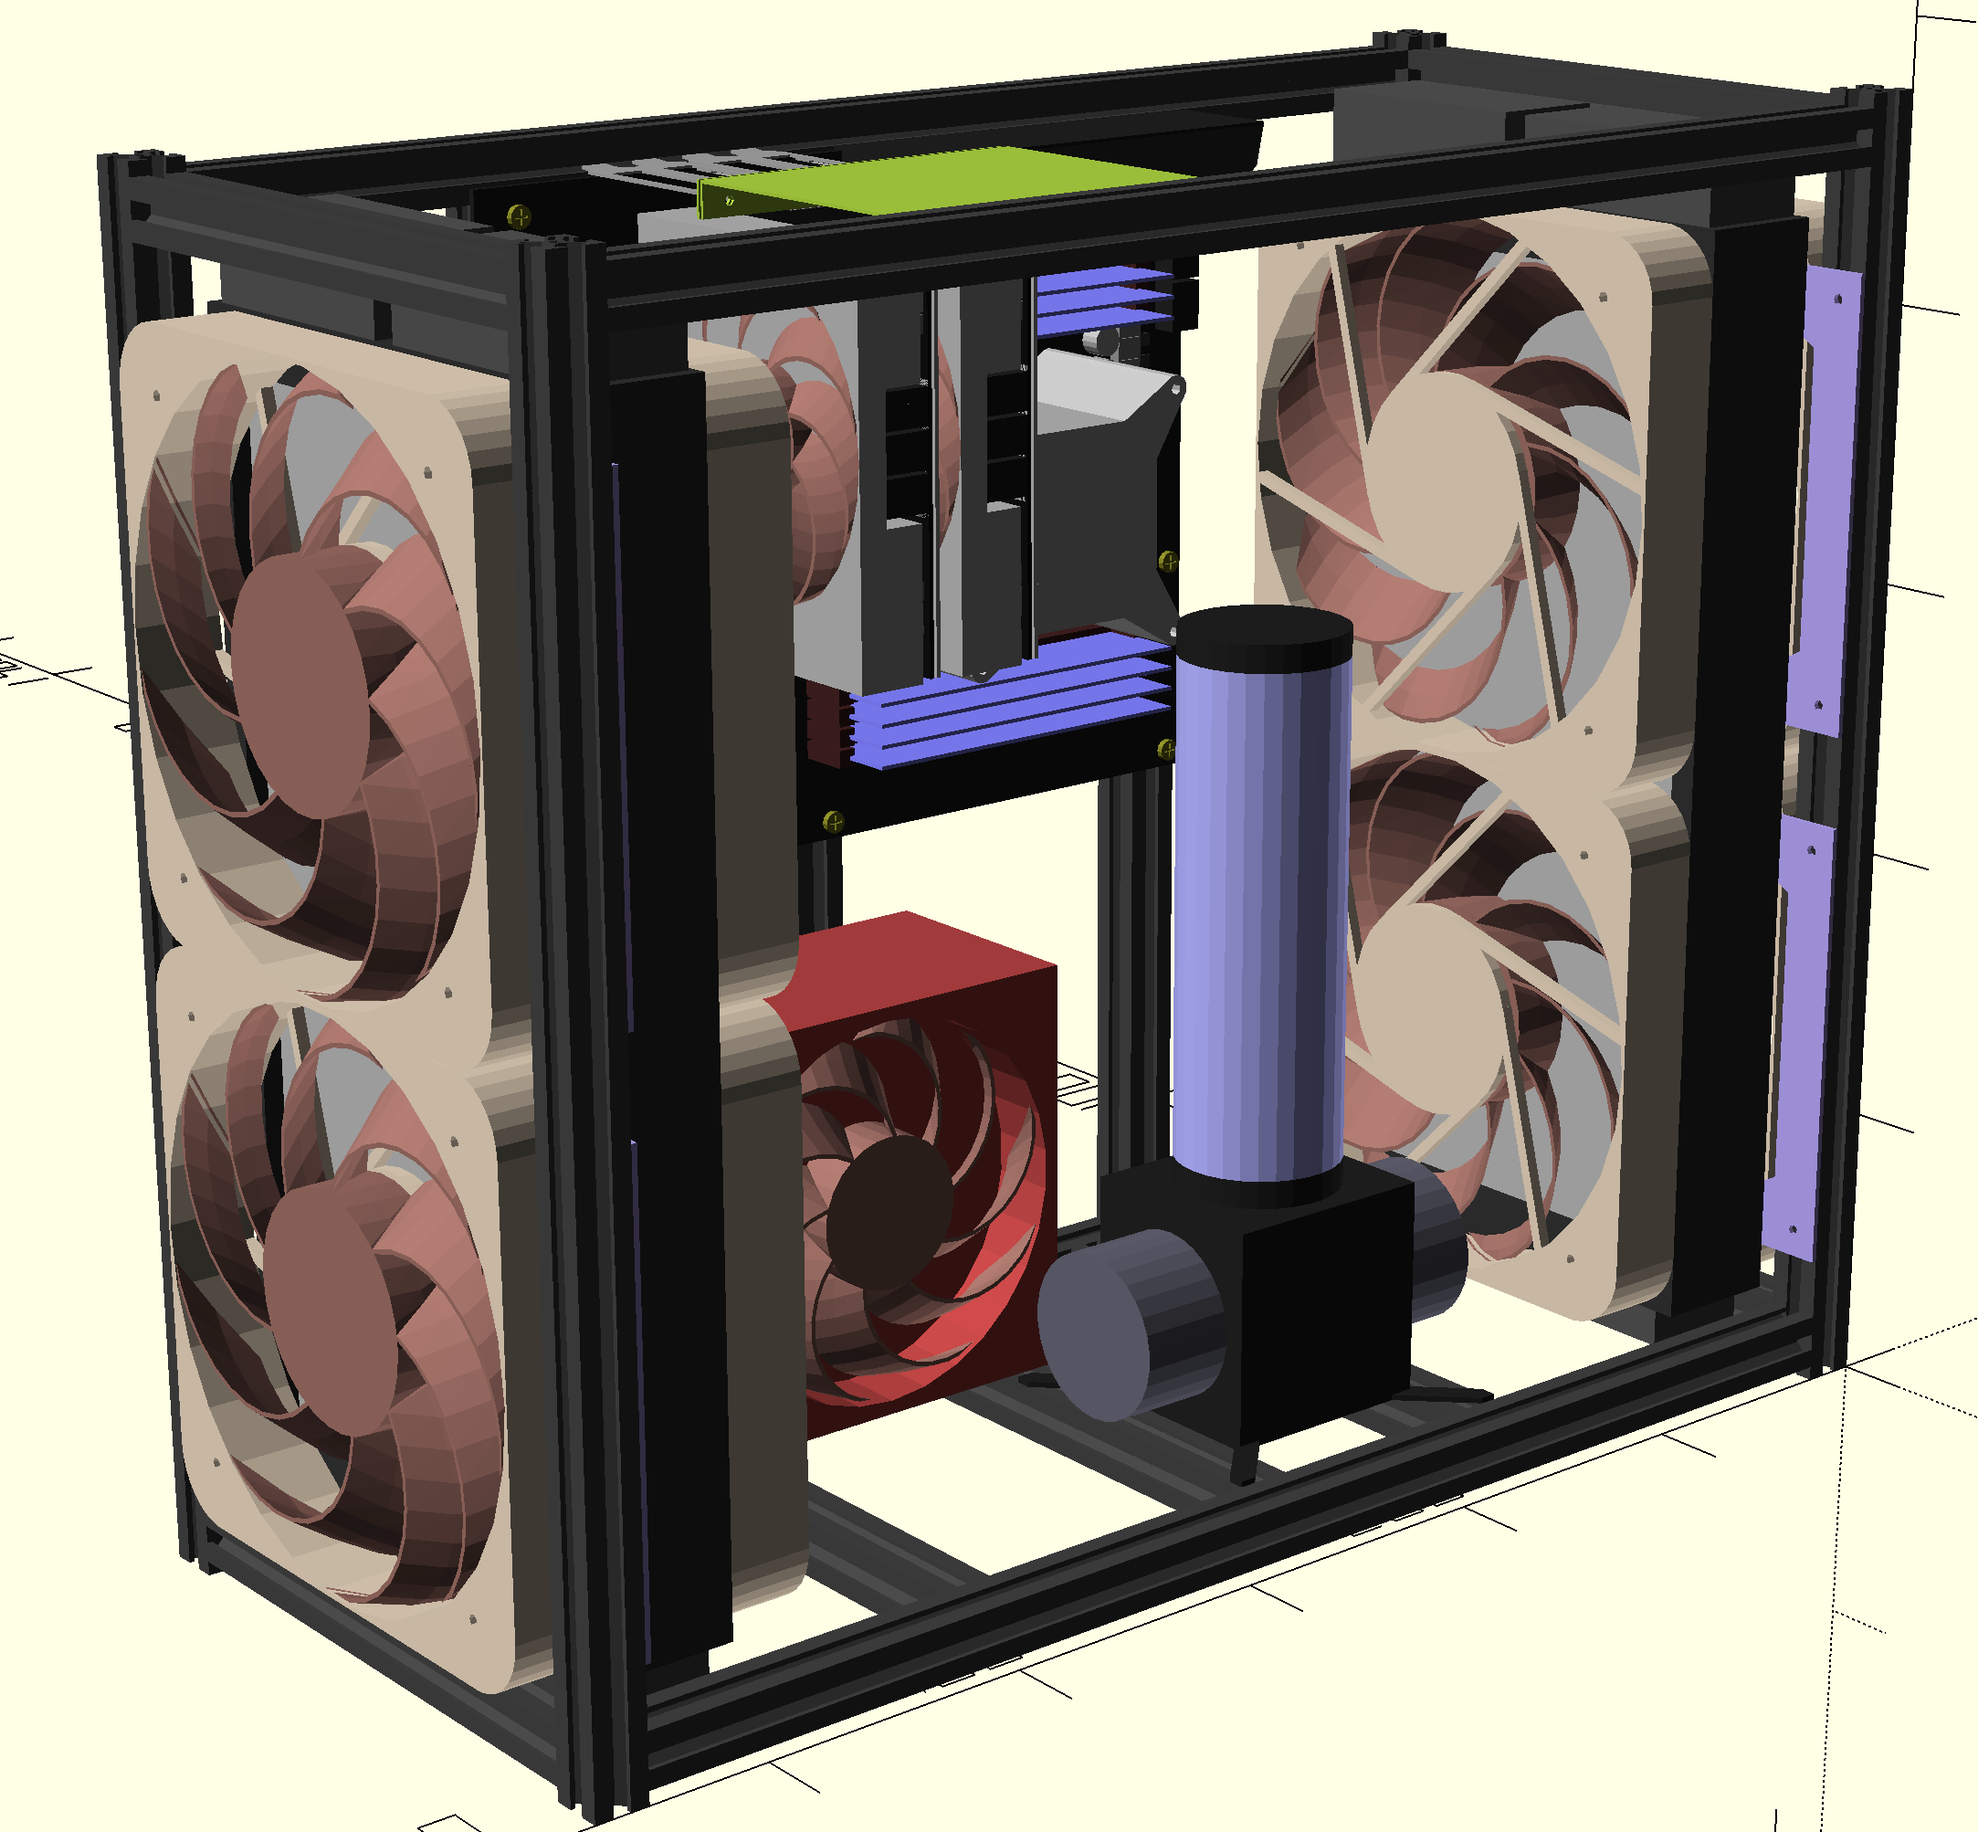
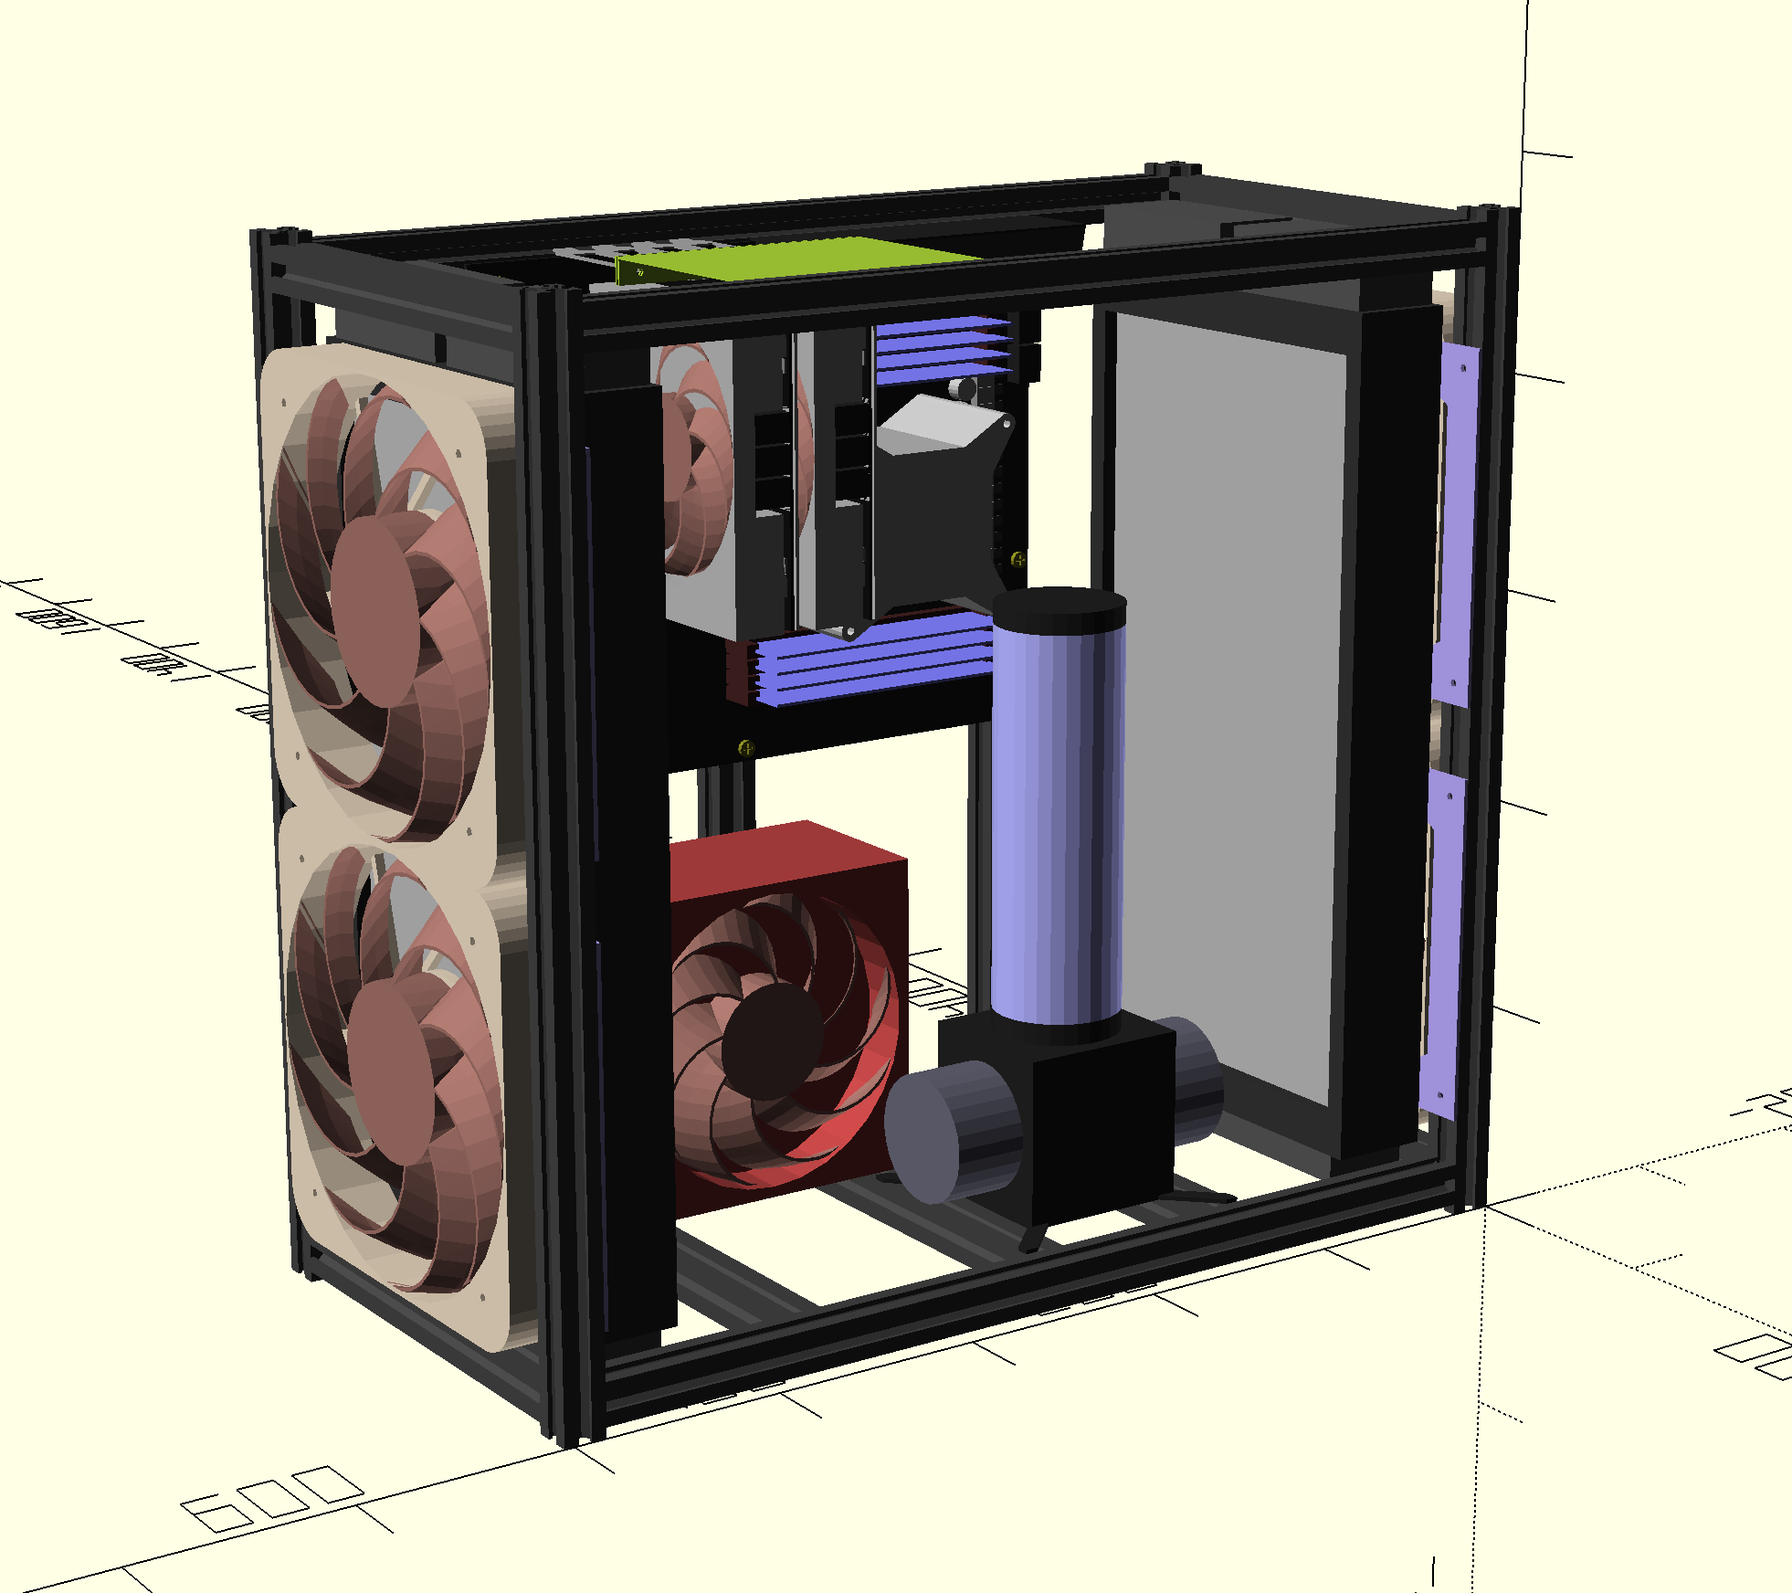
the radiators dont like me

diff --git a/README.md b/README.md
@@ -2,12 +2,12 @@
 
 An [OpenSCAD](https://openscad.org/) project
 
-## watercooling parts 
+## Watercooling parts 
 
 - IceMan dual D5 pump top.  
 - Alphacool VP-755 pump * 2   
 - Alphacool NexXxoS 400 mm XT45 radiator * 2 (* 1 for mITX/mDTX/mATX boards)  
-- Noctua A20 Fan * 8 (* 4 for mITX/mDTX/mATX boards)
+- Noctua A20 Fan * 4 (* 2 for mITX/mDTX boards)
 
 ## Supported mainboards
 
